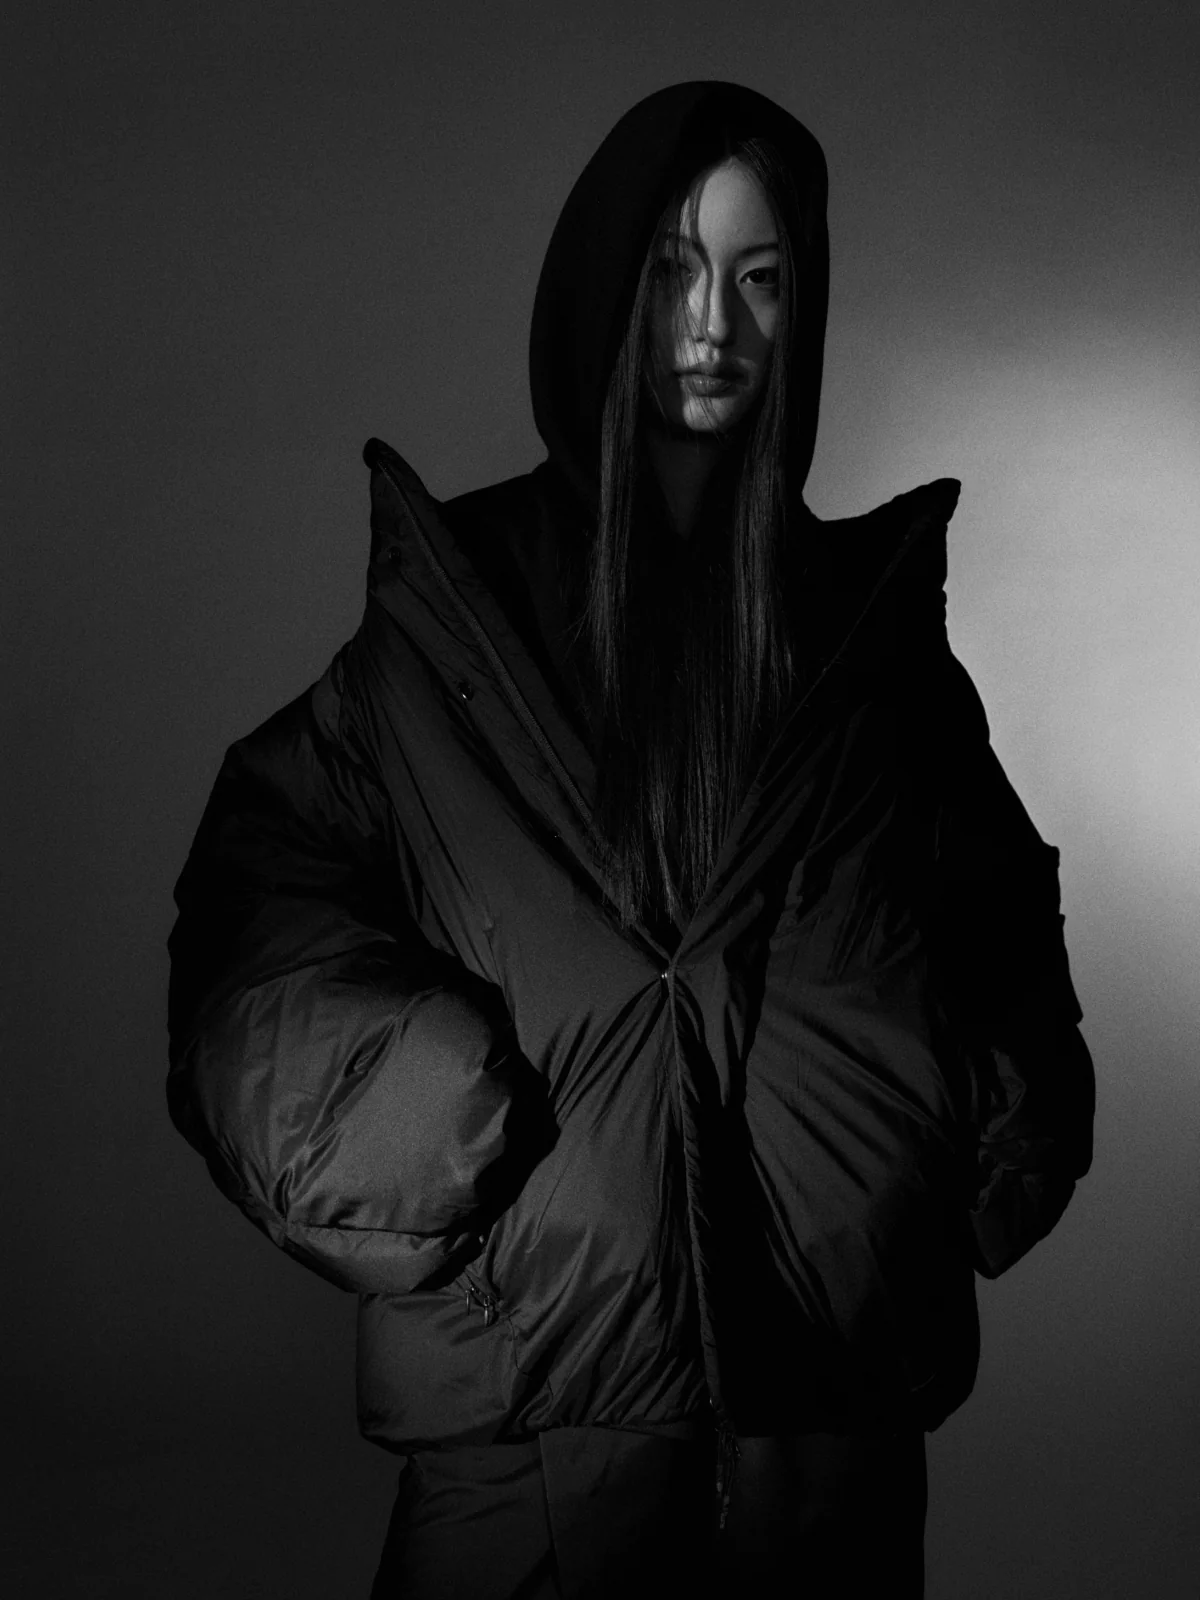
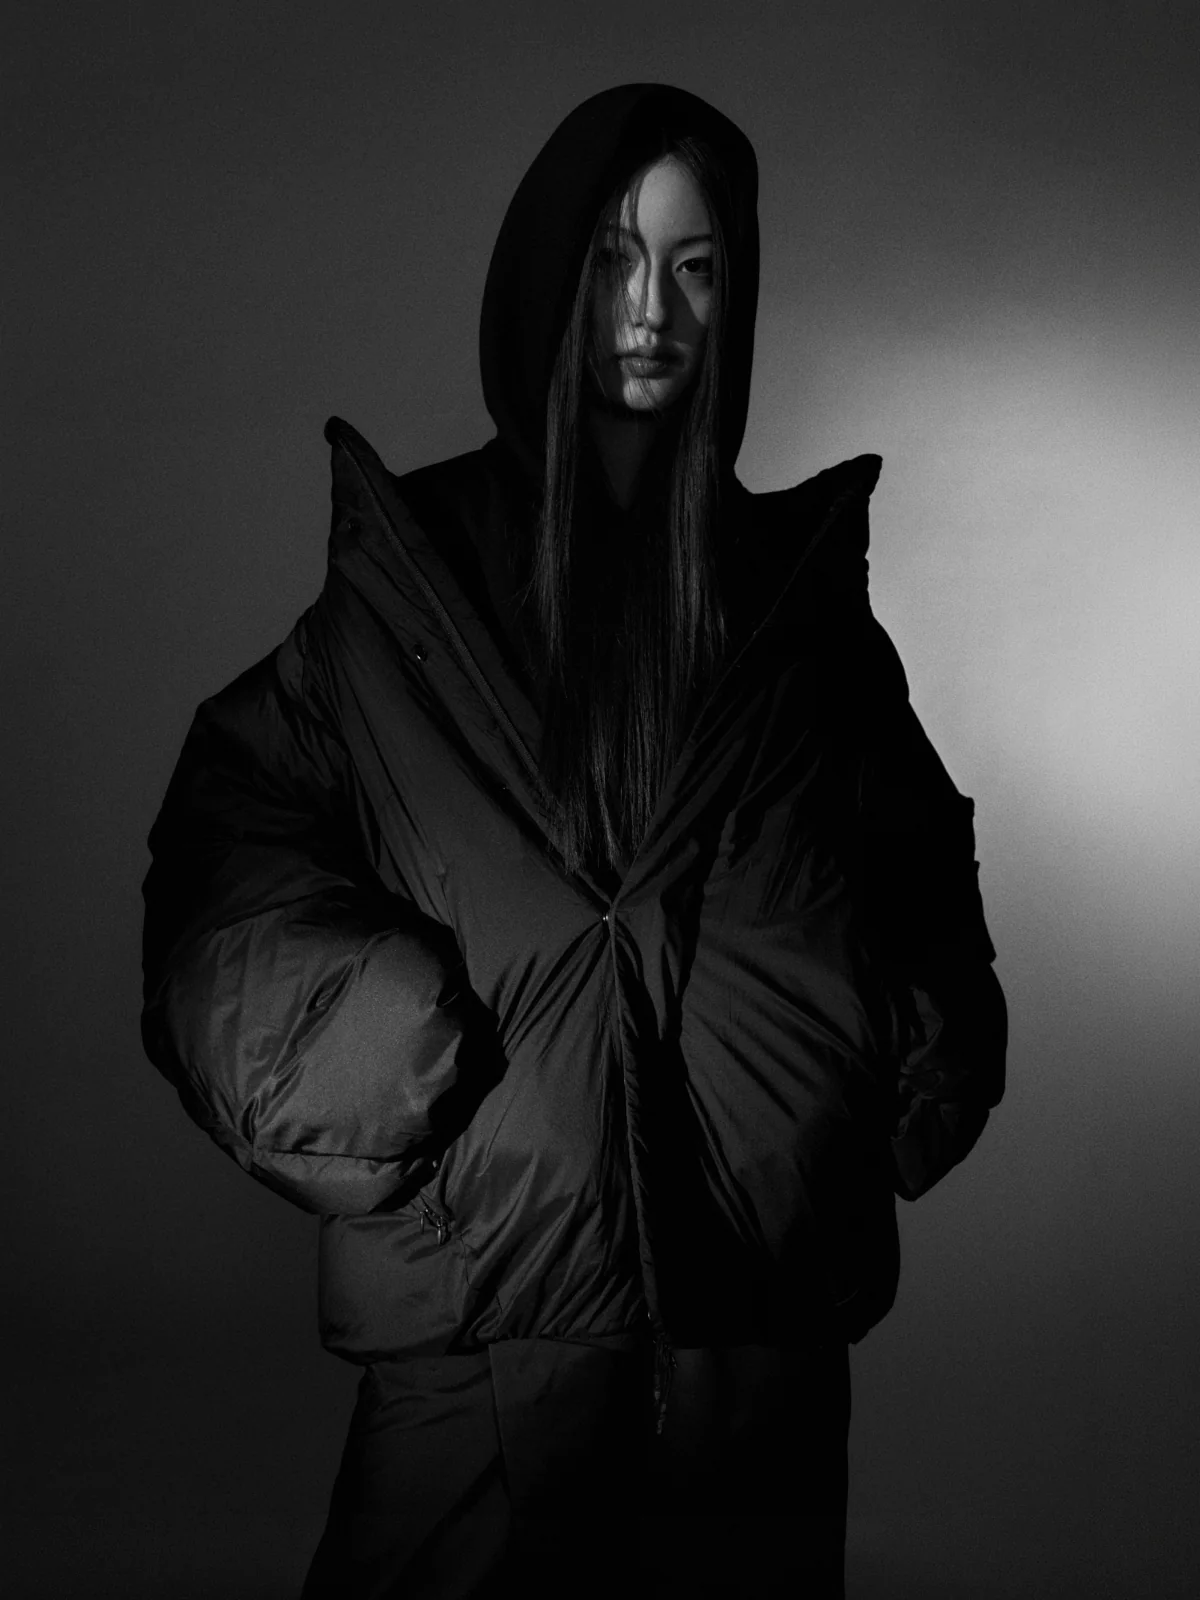
Collection: re-placed hover shot 4

Changed region(s): [[0.0925, 0.0312, 0.925, 1.0], [0.4933, 0.2812, 0.5242, 0.4062], [0.555, 0.3125, 0.5858, 0.4062]]

diff --git a/jp/index.html b/jp/index.html
@@ -38,7 +38,7 @@
   <link rel="stylesheet" href="https://cdn.jsdelivr.net/gh/orioncactus/pretendard@v1.3.9/dist/web/static/pretendard.min.css" />
   <link rel="stylesheet" href="https://fonts.googleapis.com/css2?family=Noto+Sans+JP:wght@400&display=swap" />
   <link rel="stylesheet" href="https://cdn.jsdelivr.net/gh/orioncactus/pretendard@v1.3.9/dist/web/static/pretendard-jp.min.css" />
-  <link rel="stylesheet" href="../style.css?v=20261012154923" />
+  <link rel="stylesheet" href="../style.css?v=20261012155245" />
   <script type="importmap">{ "imports": { "three": "https://unpkg.com/three@0.160.0/build/three.module.min.js" } }</script>
   <script>
     // The intro plays until it has been seen through once in this browsing
@@ -293,7 +293,7 @@
   </main>
 
   <script src="https://cdn.jsdelivr.net/npm/lenis@1.3.26/dist/lenis.min.js"></script>
-  <script src="../main.js?v=20261012154923"></script>
-  <script type="module" src="../intro/intro.js?v=20261012154923" onerror="window.aansSkipIntro && window.aansSkipIntro()"></script>
+  <script src="../main.js?v=20261012155245"></script>
+  <script type="module" src="../intro/intro.js?v=20261012155245" onerror="window.aansSkipIntro && window.aansSkipIntro()"></script>
 </body>
 </html>

diff --git a/index.html b/index.html
@@ -37,7 +37,7 @@
   <link rel="stylesheet" href="https://fonts.googleapis.com/css2?family=Oswald:wght@300;400;500&display=swap" />
   <link rel="stylesheet" href="https://cdn.jsdelivr.net/gh/orioncactus/pretendard@v1.3.9/dist/web/static/pretendard.min.css" />
   <link rel="stylesheet" href="https://fonts.googleapis.com/css2?family=Inter:wght@400&display=swap" />
-  <link rel="stylesheet" href="style.css?v=20261012154923" />
+  <link rel="stylesheet" href="style.css?v=20261012155245" />
   <script type="importmap">{ "imports": { "three": "https://unpkg.com/three@0.160.0/build/three.module.min.js" } }</script>
   <script>
     // The intro plays until it has been seen through once in this browsing
@@ -292,7 +292,7 @@
   </main>
 
   <script src="https://cdn.jsdelivr.net/npm/lenis@1.3.26/dist/lenis.min.js"></script>
-  <script src="main.js?v=20261012154923"></script>
-  <script type="module" src="intro/intro.js?v=20261012154923" onerror="window.aansSkipIntro && window.aansSkipIntro()"></script>
+  <script src="main.js?v=20261012155245"></script>
+  <script type="module" src="intro/intro.js?v=20261012155245" onerror="window.aansSkipIntro && window.aansSkipIntro()"></script>
 </body>
 </html>

diff --git a/kr/index.html b/kr/index.html
@@ -36,7 +36,7 @@
   <link rel="preconnect" href="https://fonts.gstatic.com" crossorigin />
   <link rel="stylesheet" href="https://fonts.googleapis.com/css2?family=Oswald:wght@300;400;500&display=swap" />
   <link rel="stylesheet" href="https://cdn.jsdelivr.net/gh/orioncactus/pretendard@v1.3.9/dist/web/static/pretendard.min.css" />
-  <link rel="stylesheet" href="../style.css?v=20261012154923" />
+  <link rel="stylesheet" href="../style.css?v=20261012155245" />
   <script type="importmap">{ "imports": { "three": "https://unpkg.com/three@0.160.0/build/three.module.min.js" } }</script>
   <script>
     // The intro plays until it has been seen through once in this browsing
@@ -291,7 +291,7 @@
   </main>
 
   <script src="https://cdn.jsdelivr.net/npm/lenis@1.3.26/dist/lenis.min.js"></script>
-  <script src="../main.js?v=20261012154923"></script>
-  <script type="module" src="../intro/intro.js?v=20261012154923" onerror="window.aansSkipIntro && window.aansSkipIntro()"></script>
+  <script src="../main.js?v=20261012155245"></script>
+  <script type="module" src="../intro/intro.js?v=20261012155245" onerror="window.aansSkipIntro && window.aansSkipIntro()"></script>
 </body>
 </html>

diff --git a/intro/intro.js b/intro/intro.js
@@ -1,6 +1,6 @@
 import * as THREE from "three";
-import { VERTEX_SHADER, FRAGMENT_SHADER } from "./shaders.js?v=20261012154923";
-import { loadLogoTexture } from "./logoTexture.js?v=20261012154923";
+import { VERTEX_SHADER, FRAGMENT_SHADER } from "./shaders.js?v=20261012155245";
+import { loadLogoTexture } from "./logoTexture.js?v=20261012155245";
 
 // Intro (Figma A_Intro, 2597:1545), layered over the top of the home page.
 //

diff --git a/intro/logoTexture.js b/intro/logoTexture.js
@@ -1,5 +1,5 @@
 import * as THREE from "three";
-import { signedDistanceField } from "./sdf.js?v=20261012154923";
+import { signedDistanceField } from "./sdf.js?v=20261012155245";
 
 // Rasterizes the logo's SVG path(s) FILLED onto an offscreen canvas, then
 // bakes a real signed distance field from that mask (see sdf.js). The shader
